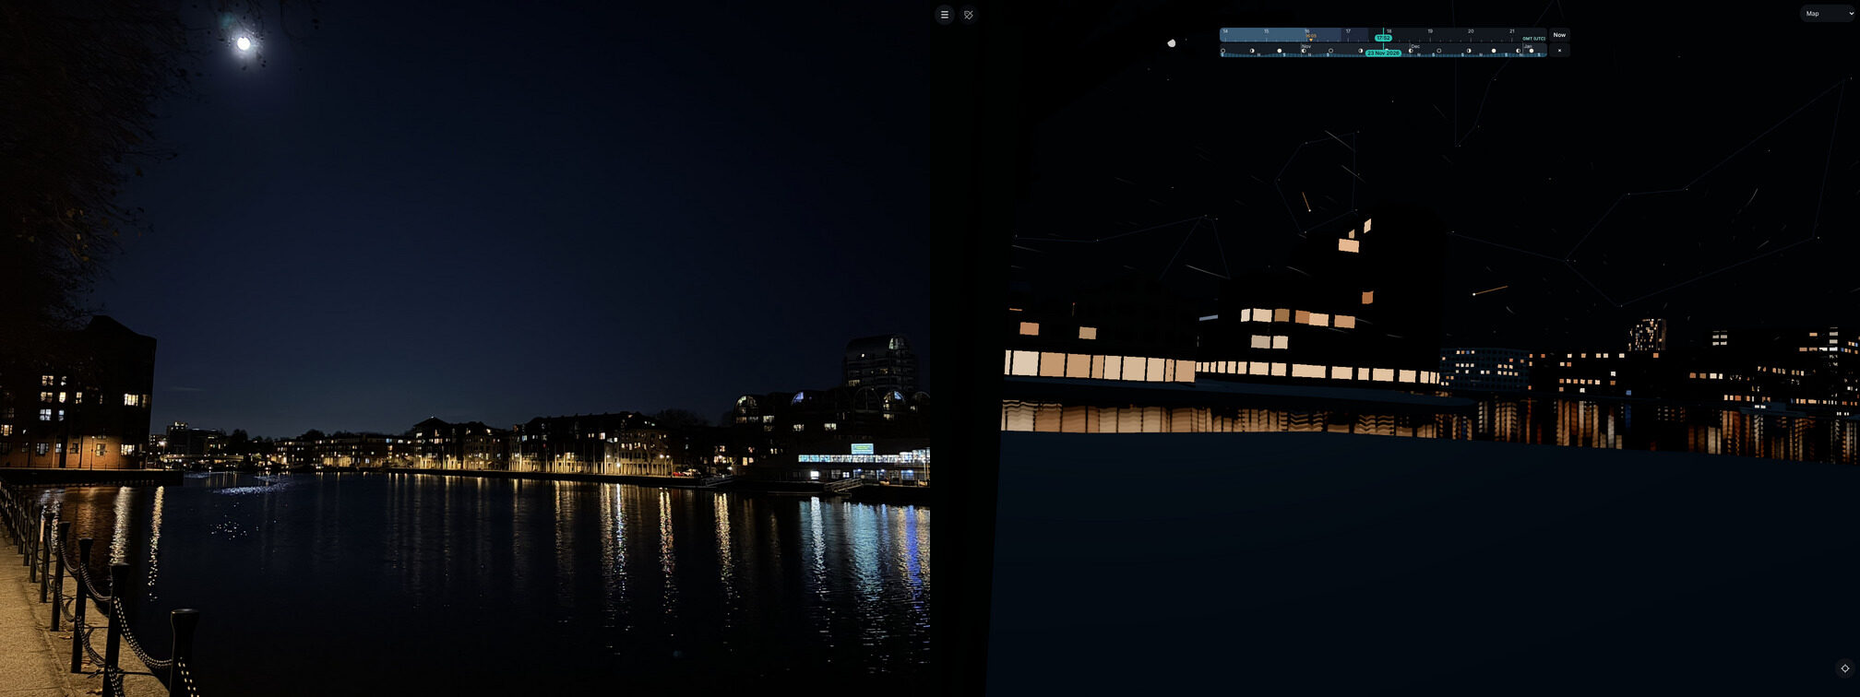
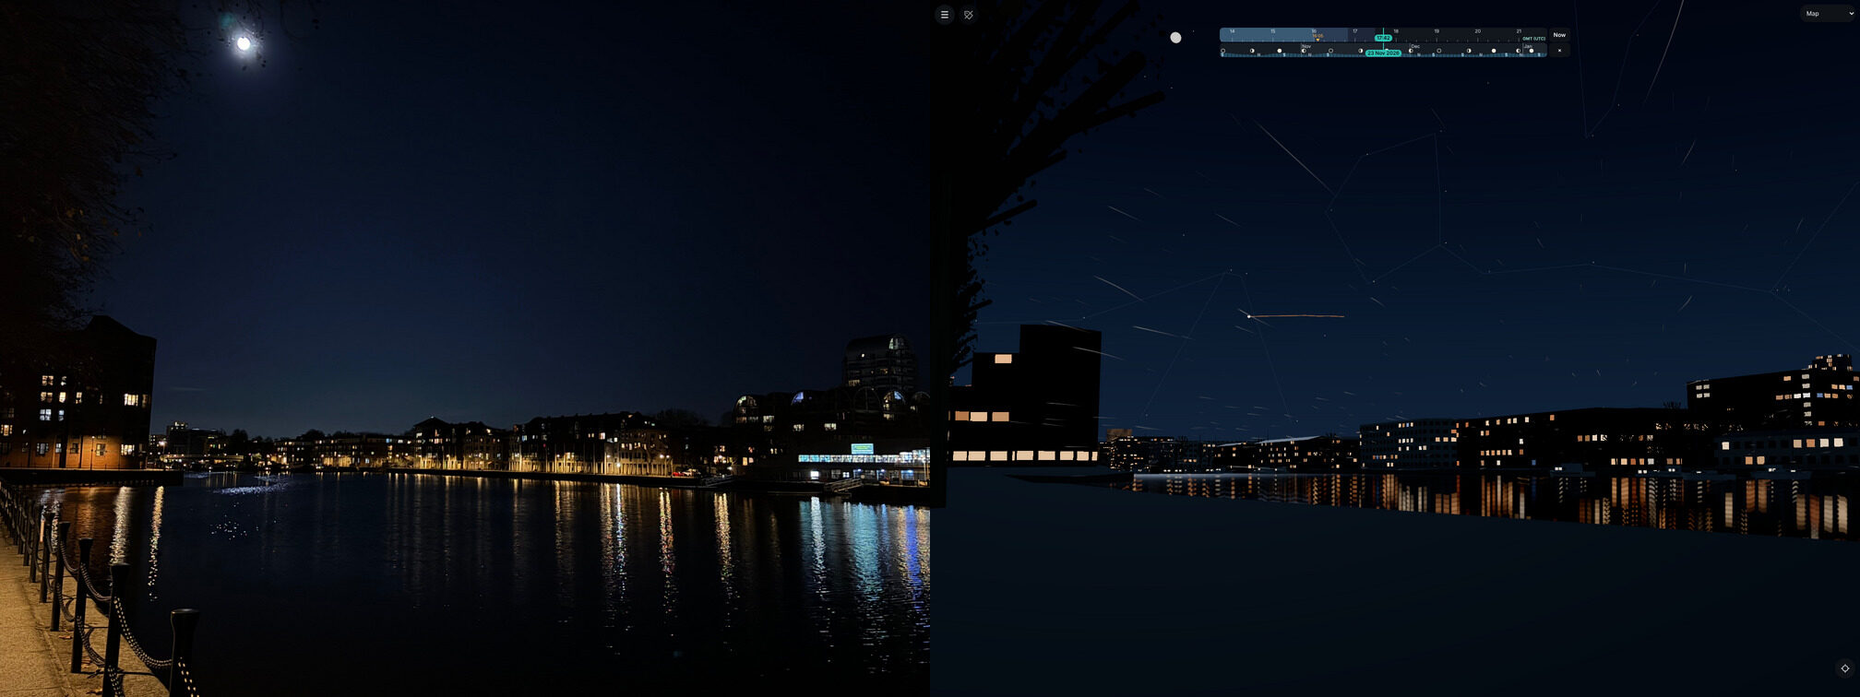
moglob: stone flood walls with a tide band; night sky lit by moon and twilight; thames-2026-11-23 second pass
Cameras at the EXIF GPS fixes and focal lengths; renders with the airport wind
set by hand (the page's weather sources failed in the container and it fell back
silently). Night sky tuned on IMG_2587 to within a few sRGB levels; walls drawn
as stone instead of highlight orange. HDR ratios from the gain maps; fault F56.

Claude-Session: https://claude.ai/code/session_01YA9gEPDC6oHpod2y21SHhn

Changed region(s): [[0.5, 0.1825, 1.0, 0.791], [0.6875, 0.0304, 0.75, 0.0608], [0.625, 0.0304, 0.6562, 0.0608]]

diff --git a/docklands/sky3.js b/docklands/sky3.js
@@ -34,6 +34,8 @@ export const dirOf = (az, alt) => { const a = az * Math.PI / 180, e = alt * Math
 function horizon(body, t) { const d = new Date(t), q = AE.Equator(body, d, OBS, true, true), h = AE.Horizon(d, OBS, q.ra, q.dec, 'normal'), g = AE.Horizon(d, OBS, q.ra, q.dec);
   return { az: h.azimuth, alt: h.altitude, altGeo: g.altitude, dist: q.dist }; }
 const sstep = THREE.MathUtils.smoothstep, clamp01 = v => Math.max(0, Math.min(1, v));
+// the night dome's colours at full strength (sRGB 0..1): tuned live on the Greenland Dock photo of 2026-11-23 17:42 GMT
+export const NIGHT_ZEN = [0.035, 0.055, 0.10], NIGHT_HOR = [0.10, 0.14, 0.21];
 // vertical exaggeration (main.js setVz): the view matrix scales y by vz, so a dome round the eye would show the sun, the
 // horizon glow and the stars too high (a direction at altitude a at atan(vz tan a)). The WebGL page draws its sky with the
 // view's rotation only (sky.js draw: cr, cu, cf from VIEW), so the sky is never exaggerated. Here a mesh round the eye is
@@ -108,6 +110,21 @@ export class Sky3 {
     this.fogU = { sigma: uniform(0), color: uniform(new THREE.Color(0xc4ccd6)) };
     scene.fogNode = fog(this.fogU.color, float(1).sub(exp(positionView.z.mul(this.fogU.sigma))).min(0.85));
     this.makeMoon();
+    this.makeNightDome();
+  }
+  // the night sky: a dome with a colour at the zenith and at the horizon, behind everything while the day sky is hidden. It
+  // brightens and turns blue with the moon (altitude x lit fraction) and with the twilight (the sun from -18 to -6 deg),
+  // tuned on the owner's photo of Greenland Dock at 17:42 GMT on 2026-11-23 (moon 98.7% lit, 26 deg up; sun -15 deg;
+  // data/images/contrib/thames-2026-11-23/: sRGB 3 9 21 at 20 to 28 deg up, 19 28 46 at the horizon). Until then the night
+  // background was a flat near-black whatever the moon.
+  makeNightDome() {
+    const U = this.nightU = { zen: uniform(new THREE.Color(0, 0, 0)), hor: uniform(new THREE.Color(0, 0, 0)) };
+    const m = new THREE.MeshBasicNodeMaterial({ side: THREE.BackSide, depthTest: false, depthWrite: false, fog: false });
+    const dir = normalize(positionWorld.sub(cameraPosition));
+    m.colorNode = vec4(mix(vec3(U.hor), vec3(U.zen), smoothstep(0, 0.45, max(dir.y, 0)).pow(0.7)), 1);
+    const mesh = new THREE.Mesh(new THREE.BoxGeometry(1, 1, 1), m); mesh.scale.setScalar(9000); mesh.renderOrder = -11; mesh.frustumCulled = false;
+    mesh.onBeforeRender = (r, sc, cam) => { mesh.position.copy(cam.position); };
+    vzUndistort(m, this.vzInv); mesh.visible = false; mesh.name = 'night-sky'; this.nightDome = mesh; this.scene.add(mesh);
   }
   // the moon: a disc facing the eye at MOON_R from the camera (so the mirror pass sees it too), added to the sky (the dark
   // side adds nothing but earthshine by night), lit on the side towards the sun (a sphere's normal against the sun direction in the disc's frame: the phase and the bright limb follow); earthshine
@@ -206,6 +223,12 @@ export class Sky3 {
     const night = new THREE.Color(0x1c1a1c).lerp(new THREE.Color(0x3a2f27), cover), dayc = new THREE.Color(0xc4ccd6).lerp(new THREE.Color(0x9ea3a8), cover);
     this.fogU.color.value.copy(night).lerp(dayc, day);
     this.scene.background = day < 0.02 ? new THREE.Color(0x07080c).lerp(new THREE.Color(0x2a231e), 0.85 * cover) : this.cutDark ? new THREE.Color(0x0f1215) : null;
+    // the night dome (makeNightDome): moonlight and twilight, dimmed by cloud; colours in sRGB, converted by THREE.Color
+    { const moon = M.alt > 0 ? sstep(M.alt, 0, 25) * ph : 0, tw = sstep(B.S.alt, -18, -6), k = Math.max(moon, tw) * (1 - 0.7 * cover), on = day < 0.02 && !this.cutDark && k > 0.01;
+      this.nightDome.visible = on;
+      if (on) { const base = new THREE.Color(0x07080c).lerp(new THREE.Color(0x2a231e), 0.85 * cover);
+        this.nightU.zen.value.copy(base).lerp(new THREE.Color().setRGB(...NIGHT_ZEN, THREE.SRGBColorSpace), k);
+        this.nightU.hor.value.copy(base).lerp(new THREE.Color().setRGB(...NIGHT_HOR, THREE.SRGBColorSpace), k); } }
     if (this.state) this.state.weather = w ? { cover, low, mid, high, visibility: vis, sunTransmission: +tr.toFixed(3) } : null;
   }
 }

diff --git a/docklands/layers/walls.js b/docklands/layers/walls.js
@@ -1,7 +1,10 @@
 // Layer "walls" of the Three.js port (docklands/): the Environment Agency tidal flood defences (A.defences of area.js),
 // as in index.html "EA flood defences": for each segment a 0.8 m wide slab from the LiDAR ground (or 0.3 m under the crest,
-// whichever is lower) up to the surveyed crest level d.c (m OD). Colour #e07a3f (index.html WC [.88, .48, .25]). On by
-// default, as the WebGL page's "Flood walls" box. Skill: docklands-3d-page, "Three.js port".
+// whichever is lower) up to the surveyed crest level d.c (m OD). On by default, as the WebGL page's "Flood walls" box.
+// Colour: stone above WET m OD and a dark, weed-stained band below it, as the river walls look in the owner's photos of
+// 2026-11-23 (data/images/contrib/thames-2026-11-23/: London Bridge, Old Billingsgate); until then the highlight orange
+// #e07a3f of index.html, which drew every river wall as a salmon slab and coloured its reflection in the water.
+// Skill: docklands-3d-page, "Three.js port".
 import { A, Mesh, dec } from '../build.js';
 
 // index.html beam(): a box of width w and height h centred on the line a-b (no end caps); three.js lights the faces
@@ -15,10 +18,12 @@ export function beam(M, a, b, w, h, col) {
 export default {
   id: 'walls', label: 'Flood walls (EA, to crest level)', on: true,
   async init(ctx) {
-    const { THREE } = ctx, M = new Mesh(), WC = [.88, .48, .25];
+    const { THREE } = ctx, M = new Mesh(), WC = [.70, .67, .60], WET = 3.2, WETC = [.30, .31, .24];   // stone, the tide band's top (m OD), the band
     let segs = 0;
     for (const d of A.defences || []) { const q = dec(d.q, 3);
-      for (let i = 3; i < q.length; i += 3) { const g = Math.min(q[i - 1], q[i + 2], d.c - .3), h = d.c - g; beam(M, [q[i - 3], g + h / 2, q[i - 2]], [q[i], g + h / 2, q[i + 1]], .8, h, WC); segs++; } }
+      for (let i = 3; i < q.length; i += 3) { const g = Math.min(q[i - 1], q[i + 2], d.c - .3), w = Math.min(Math.max(WET, g), d.c);
+        if (w > g) beam(M, [q[i - 3], (g + w) / 2, q[i - 2]], [q[i], (g + w) / 2, q[i + 1]], .8, w - g, WETC);
+        if (d.c > w) beam(M, [q[i - 3], (w + d.c) / 2, q[i - 2]], [q[i], (w + d.c) / 2, q[i + 1]], .8, d.c - w, WC); segs++; } }
     if (!M.n) return {};
     const mesh = new THREE.Mesh(M.geometry(), ctx.materials.vertexColourMaterial());
     mesh.castShadow = mesh.receiveShadow = true; mesh.name = 'walls';

diff --git a/docklands/layers/model.js b/docklands/layers/model.js
@@ -21,7 +21,7 @@ const KEY = [['#b9bec4', 'Building, LiDAR height (Map look)'], ['#e0b25a', 'Buil
   ['#b05cff', 'Basement (storeys × height)'], ['#e7d6ff', 'Indoor corridor / steps'], ['#d8c49a', 'Outdoor path or steps with a level (decks, bridges)'],
   ['#ff5fa2', 'Shops, rooms, points with a level'], ['#ff8a3d', 'Platform'], ['#c9ced6', 'Jubilee'], ['#9b6cff', 'Elizabeth line'], ['#2cc3b5', 'DLR'],
   ['#ff8a3d', 'Other Overground / rail'], ['#e6e08a', 'Road and foot tunnels'], ['#f9c75a', 'Published slab levels (Crossrail Place)'], ['#3f8fc0', 'Water'],
-  ['#e07a3f', 'Tidal flood walls to their crest level (EA)'], ['#2a4a6b', 'Thames riverbed, UKHO soundings in m OD']];
+  ['#b3ab99', 'Tidal flood walls to their crest level (EA): stone, dark band below 3.2 m OD'], ['#2a4a6b', 'Thames riverbed, UKHO soundings in m OD']];
 
 export default {
   id: 'model', label: null, on: true, menu: 'look', reveal: false,

diff --git a/cwplans/skills/docklands-data-curation/SKILL.md b/cwplans/skills/docklands-data-curation/SKILL.md
@@ -199,6 +199,7 @@ Faults found in this project's joins and tools. "Open" means catalogued and meas
 | F53 | 2026-10-07 | `key-model-buildings.mjs` writes `s:sameAs https://www.openstreetmap.org/undefined/<id>` for every model building keyed by an OSM way: it builds the URL from `el.type`, and the ways of the OSM clip have no `type` field. 42,244 links in the graph `model-building-keys` (a head, not in the browser store). Found by the subagent that moved the graph IDs to https://kgx.foaf.tv/id/. | pipeline | fixed 2026-10-21 (KR6.3 rule 3, londat commits 135a7a50 / e489ffd5): the `sameAs` line builds the URL from the element key (way or relation), operation `key-model-buildings` version 5; for this checkout (no OSM clip or extract) the operation `osm-urls-from-keys` v1 (`key-model-buildings.mjs --repair-osm-urls`) made the new head `id:graphmodelbuildingkeysd69bccf8249df7e7` from `…40cf5331fa99da1a` (42,244 URLs, each checked against its subject key; 220 relation URLs were right already) | `openstreetmap.org/undefined/` in `kgx/current.nq.gz`: 42,244 → 0 |
 | F54 | 2026-10-11 | From a quay the near water is ground: `docklands/build.js` `waterSink` sinks the 20 m terrain grid only more than one cell inside a water polygon that is not tidal ("the edge cells stay: the bank"), so the terrain at about 5 m OD covers the water (3.3 m OD) for up to 20 m out from each dock wall. Seen in the owner's photo of Greenland Dock (2026-10-11, `?view=greenlanddock`): the water starts at the bollards in the photo and about 20 m out in the render, behind a grey slab | validity (our method: grid resolution) | fixed in the Three.js port 2026-10-11 (`build.js` `terrainModel` / `terrainGeometry`: one generic rule for every outline: the terrain triangles are cut along the water outlines, land pieces on the LiDAR with a guard against water returns at the quay, water pieces at the sunk height, a vertical stone quay wall along each outline; Greenland Dock and 2 km of Thames 100 % within 0.5 m with `?layers=water,walls`; 264,625 triangles, was 210,000; skill docklands-3d-page, "Three.js port: dock edges follow the outlines (2026-10-11)"). Open in the WebGL page (`index.html` `waterMask()` / terrainSink: the same cut in its terrain builder, stone colour baked into the wall vertices, the cut heights for its greens and trees, its tide sink on the tidal pieces). Also open: the `?view=greenlanddock` eye is 5 m inside the OSM outline, so the frame's foot is water, not the quay of the photo | `docklands/test/photo-tones.mjs` screenshot; `docklands/test/dock-edges-check.mjs`; `data/images/contrib/greenlanddock/README.md` |
 | F55 | 2026-10-18 | Buildings outside the UK with no height in OSM: `cwplans/tools/build-place-tiles.mjs` (places on the globe, KR1.2) takes OSM `height`, else `building:levels` x 3 m, else a national adapter's floors x 3 m (León: the Catastro INSPIRE building parts, area-weighted median of the parts whose centroid is inside the OSM outline), else a stated default (9 m; 3 m for small kinds such as garage, shed, kiosk). Counted per class in each place's `log.json` (`height_sources`), not patched per record. León (OSM of 2026-10-18, 4,213 buildings and parts): OSM height 105, OSM levels 1,452, Catastro floors 2,454, default 177, small default 25; OSM levels and Catastro floors differ by 2 or more for 61. Sarajevo (OSM of 2026-10-18, 7,432 buildings and parts, no national height source: FGU / RGURS not yet reached): OSM height 141, OSM levels 176, default 7,096, small default 19, so 95 % stand at 9 m. 2026-10-20 (place-heights v2): a worldwide raster step before the default, GHSL GHS-BUILT-H R2023A cell average (CC BY 4.0, adapter world-ghsl): Sarajevo default 7,096 -> 0, GHSL 7,096 (3 to 18.2 m, median 10.4); León default 177 -> 0, GHSL 177. A cell average is not a building measure, so the class stays open. FGU (katastar.ba) services need a log-in, a written request and a fee: not reached. Roofs are a second class in the same log (`roofs`): OSM roof:shape where tagged, else the region roof rule, else flat. 2026-10-20 later (place-heights v3, owner "Use ms/overture"): Overture (non-OSM values with an open licence) and Microsoft footprint heights before GHSL: León Overture 7, Microsoft 6, GHSL 177 -> 166; Sarajevo 0 and 0 (Microsoft has no heights in quadkey 120233030; Overture's non-OSM records there are Microsoft footprints without heights), GHSL stays 7,096. Overture num_floors from IGN España (1,009 in León) have an empty licence field: left out. 2026-10-20 night (place-heights v4, place-city-heights v1; owner on the IGN floors: "use the data but keep it distinct and easy to remove if requested. Use for validation at least"): adapter overture-ign-floors, its own crop places/leon/sources/overture-ign-floors.json (9,782 records over the city box), class `overture-ign-floors` after the national floors, switch = its id in place.heights. These records are whole IGN buildings that OSM lacks (1 of 9,782 matches an OSM outline), so they give 0 heights; as EVIDENCE: against the Catastro parts inside each record (area-weighted median), 4,490 records, same floors 89.9 %, within one floor 97.9 %, mean difference +0.05, mean absolute 0.15, max 9 (IGN and Catastro agree: the national floors class is sound where both exist); against OSM building:levels 1 record. The city tier (blocks, OSM geometry via Overture) uses the same order: León city 11,201 buildings: OSM height 14, levels 1,176, Catastro 5,050, Overture 913, Microsoft 208, small 163, GHSL 3,674, default 3; Sarajevo city 48,736: OSM height 32, levels 2,370, small 200, GHSL 46,106 (95 %), default 28. 2026-10-21 (place-city-heights v2): the city ring also draws IGN (León) and Microsoft footprints where OSM has none, each its own geometry class with a switch; their heights: León IGN 10,852: IGN floors 4,927, Catastro 4,524, GHSL 1,268, Overture height 50, default 45, Microsoft 38; León Microsoft 1,907: GHSL 1,669, Overture height 173, Catastro 30, default 35; Sarajevo Microsoft 8,944: GHSL 8,907, default 37. 2026-10-21 (Greater London as blocks, place-city-heights over 1,122,576 OSM buildings of the GLA area, Overture release 2026-09-23.1): OSM height 1,354 (OSM `height` is rare in London: 2,247 records), OSM levels 224,148, other Overture sources 0, Microsoft ML heights through Overture 189,445 (Overture had put them on 333,782 OSM outlines already: the record's own ring matches), small kinds 22,477, GHSL 685,028 (61 %), default 7 m 124; `places/london/provenance/log.json` | coverage (source) and validity (our rule: 3 m a storey, flat roofs, roof:levels left out) | open, by design: the rule is the class; better sources per country (3DBAG for the Netherlands, national LiDAR heights) replace the default in the adapter, not in records | https://github.com/danbri/londat/blob/main/cwplans/docklands/data/places/leon/log.json `height_sources`; skill docklands-3d-page, "Three.js port: places as 3D Tiles (2026-10-18)" |
+| F56 | 2026-11-23 | Baltic Quay (OSM relation 7168778, model 38286) is 32.6 m OD in the model; the owner's photo IMG_2587 of 23 November (eye at its GPS fix, camera fitted to the moon and the dock waterline, rms 7.3 px) puts its tower top 7.1 deg up at 332 m, about 47 m OD. The model is about 14 m low (the relation's outline probably averages the tower with the lower blocks). Open: take the tower part's own height. Record: `data/images/contrib/thames-2026-11-23/README.md`. |
 
 Add new faults here with the next F number, and in the activity log.
 

diff --git a/data/images/contrib/thames-2026-11-23/README.md b/data/images/contrib/thames-2026-11-23/README.md
@@ -46,6 +46,68 @@ IMG_2337 shows HMS Belfast and Tower Bridge against the light. 2347 and 2354: th
 gain map (`urn:com:apple:photo:2020:aux:hdrgainmap`), a sky mask (`...:aux:semanticskymatte`), a linear thumbnail and a
 style delta map (`tag:apple.com,2023:photo:aux:...`); no depth or disparity map.
 
+### Second pass with the originals (2026-11-23, 22:30 to 23:40 GMT)
+
+Photos decoded from the HEICs (Display P3 to sRGB, 2016 px on the long side). Cameras with the eye at the GPS fix (height
+from the tide: 4.2 m OD on the boat; 5.5 m OD on the dock quay) and the focal length from the EXIF 35 mm equivalent
+(f = f35 / 43.27 x the image diagonal in pixels); only heading, pitch and roll fitted:
+
+| IMG | focal (px on 2016) | heading (grid) | pitch | roll | evidence | rms |
+|---|---|---|---|---|---|---|
+| 2337 | 9784 (168 mm) | 103.69 | 2.87 | 0 (fixed) | the Tower Bridge south tower peak (model 39872, 68 m OD) | exact (1 point) |
+| 2340 | 14210 (244 mm) | 76.73 | 1.58 | 0.95 | the four White Tower turret tops | 11.0 px |
+| 2347 | 1398 (24 mm) | 27.35 | 3.37 | 0.56 | 22 Bishopsgate, 20 Fenchurch Street, the Scalpel, 4 waterline pixels | 13.4 px |
+| 2354 | 6639 (114 mm) | about 29 | about 3.0 | 0 | the pier's west corner and waterline, by hand | not fitted |
+| 2587 | 2097 (36 mm) | 97.09 | 7.07 | -0.18 | the moon at the EXIF time, 4 dock waterline pixels | 7.3 px |
+
+In 2587 the top of Baltic Quay, held out, misses by 100 px: the photo puts it about 47 m OD at 332 m, the model has 32.6 m
+(fault F56 in the curation skill).
+
+Render inputs: in this container the page's weather sources failed and it used its stated default wind (4 m/s from 240)
+silently: Open-Meteo answered "Daily API request limit exceeded" (the day's many test loads from one address), and the
+live-cache METAR request was aborted by its 8 s limit while the software-rendered page loaded (curl fetches it in 0.45 s);
+`metar-history.json` ends on 2026-11-22. The renders therefore set the airport reports by hand: `?wind=1.5,60` (EGLC
+230920Z 06003KT) and `?wind=3.1,110` (231750Z 11006KT). Cloud: none (METAR "NCD"); the photos show thin cirrus.
+
+HDR measurements (Apple's published headroom rule from maker-note tags 33 and 48: 5.1x for 2347, 4.8x for 2587; HDR
+linear = SDR linear x (1 + (headroom - 1) x gain map); ratios to the median of the sky, found with the HEIC's sky mask):
+
+| photo | region | median | brightest 1% |
+|---|---|---|---|
+| 2347 | sun glint on the glass front | 7.7 | 9.7 |
+| 2347 | glitter path on the river | 0.8 | 9.6 |
+| 2347 | water beside the path | 0.39 | 1.8 |
+| 2347 | sunlit front of Old Billingsgate | 1.95 | 4.9 |
+| 2587 | moon | 150 | over 800 (clipped) |
+| 2587 | moon glitter on the dock | 1.3 | 78 |
+| 2587 | lamp and window streaks (far right) | 12 | 250 |
+| 2587 | dark water | 0.47 | 3.3 |
+
+What the renders at the right cameras show (`compare-IMG_NNNN-photo-moglob.jpg`, photo left):
+(`compare-IMG_2354-photo-moglob.jpg`: photo, then moglob with the old orange walls, then with the new stone walls; `compare-IMG_2587-photo-moglob.jpg`: photo, then moglob with the new night sky.)
+
+- 2337 Tower Bridge: the tower is in the right place; it has the office facade, and no high walkways or chains;
+  HMS Belfast's sides that face the camera are in shade in the photo (the sun 45 deg to the right) and light grey in the
+  render.
+- 2340 Tower of London: the turrets are in the right place; office facades on the White Tower and its neighbours; a
+  simulated river bus at Tower Millennium Pier (the pier layer draws one while the TfL timetable has a call; the photo
+  shows none) fills the foreground.
+- 2347 City: no glint on any glass front and so no second glitter path; grey, not sunlit, fronts; the building reflections
+  bent too much by the chop.
+- 2354 London Bridge: the river wall was a large salmon-orange slab (the flood wall layer's highlight colour) and coloured
+  the water orange; the bridge piers are missing.
+- 2587 Greenland Dock: the night sky was black (sRGB 1 2 3) against the photo's deep blue (3 9 21 high, 19 28 46 at the
+  horizon); no moon glitter; constellation lines over the sky.
+
+Changes made the same evening:
+
+1. Flood walls (`docklands/layers/walls.js`): stone (sRGB 0.70 0.67 0.60) with a dark band (0.30 0.31 0.24) below 3.2 m OD,
+   in place of the highlight orange; the legend says so. The layer, its switch and its data are unchanged.
+2. Night sky (`docklands/sky3.js`, `makeNightDome`): a dome with a zenith and a horizon colour while the day sky is hidden,
+   brightened by the moon (altitude x lit fraction) and by twilight (sun -18 to -6 deg), dimmed by cloud. Tuned live on
+   2587 in three rounds; chosen: sRGB 2 8 22 at 20 to 28 deg up (photo 3 9 21), 5 18 37 at 10 to 15 deg (7 16 31), 12 29 50
+   at the horizon (19 28 46).
+
 My estimates made before the zip, against the EXIF (the sections below are those estimates, kept as the record):
 
 - Times of 01 to 03, "about 09:30 to 09:50": right (09:38 to 09:40).
@@ -116,13 +178,13 @@ GMT +-4 min; the owner sent the photos at 18:08.
   the sky deep blue, lighter at the horizon.
 - moglob: no moon glitter; few streaks on the near water; constellation lines drawn over the sky (a layer that is on).
 
-## Gaps found, for the next steps
+## Gaps found, for the next steps (status after the second pass)
 
 1. Building material by type: historic stone buildings (castle, church, Victorian market) take the office facade.
 2. Sunlit fronts: low winter sun should warm and brighten the faces it lights (Tower, Billingsgate, London Bridge).
 3. Specular glass: sun glints on glass fronts and the glitter path they throw.
-4. Moon glitter on water at night.
-5. River walls and timber jetties: an orange-brown band in the model.
+4. Moon glitter on water at night. The night sky colour itself: done, 2026-11-23.
+5. River walls: done (stone with a tide band), 2026-11-23. Timber jetties: open.
 6. Bridge piers missing (London Bridge).
 7. Cameras: 03 and 04 need better solves before their numbers are used.
 8. Inputs of the day renders: the page used its stated default wind (4 m/s from 238 deg) and no weather for 01 to 03

diff --git a/cwplans/docklands/skills/photo-view-reconstruction/SKILL.md b/cwplans/docklands/skills/photo-view-reconstruction/SKILL.md
@@ -193,6 +193,26 @@ and measurements: https://github.com/danbri/londat/blob/main/data/images/contrib
   README lists what the port lacks here: the warm horizon round a low sun, brown turbid water, choppy water without mirror
   reflections, and the glare round the sun.
 
+## Rendering moglob at a photo's camera (2026-11-23)
+
+- `tools/view-mcp/render.mjs` renders the old WebGL 1 page (`cwplans/docklands/`), not moglob. For moglob, open
+  `docklands/?t=<time>&labels=0&webgl&animate=0`, wait for `__docklands3.ready`, then
+  `__docklands3.setCam({ ...eyeView(eye, heading, pitch, hfov), roll })` with `eyeView` imported from `/docklands/views.js`;
+  wait about 25 s; screenshot. About 8 minutes a view in SwiftShader; a background command stops at 30 minutes, so run at
+  most three views a command.
+- Read the page's inputs after the render (`WU.windSpeed`, `WU.windDir`, `sky.state.weather`): the weather sources fail in
+  the container (Open-Meteo's daily limit after many loads; the live-cache METAR fetch aborts at 8 s while the page is
+  busy) and the page falls back to 4 m/s from 240 without an error. Set the airport report by hand with `?wind=m/s,deg`.
+- With the EXIF: eye at the GPS fix, focal = f35 / 43.27 x the image diagonal in pixels, fit only heading, pitch and roll.
+  The phone compass on a boat was 14 to 120 deg wrong; do not use it there.
+- Tune a colour live: one page load, change the exported constant or uniform from Playwright, `applyLight()` or
+  `frameNow()`, screenshot, measure, repeat (night sky: three rounds, 2026-11-23). The tone mapping shifts colours (AgX made
+  a dark blue more saturated and removed its red): measure the output, never assume input equals output.
+- HDR from the HEIC: the gain map (`urn:com:apple:photo:2020:aux:hdrgainmap`) and Apple's headroom (maker-note tags 33 and
+  48) give brightness above the SDR white: HDR = SDR x (1 + (headroom - 1) x gain). The sky mask
+  (`...:aux:semanticskymatte`) selects sky pixels exactly. `pillow-heif` reads both (8-bit); the linear thumbnail and the
+  style delta map are 10-bit and it does not read them.
+
 ## Ground versus air
 
 Ground (a pier, a promenade): the eye is known to a few metres from where the photo was taken and its height from the

diff --git a/cwplans/skills/docklands-data-curation/ACTIVITY-LOG.md b/cwplans/skills/docklands-data-curation/ACTIVITY-LOG.md
@@ -3782,3 +3782,11 @@ for automation, and moglob opens an old `#v=1` share link with no page errors. `
   glass, no moon glitter, orange-brown river walls, no bridge piers. No renderer change in this entry.
 - `tools/view-mcp/render.mjs` renders the old WebGL 1 page, not moglob; the moglob renders here used a script that sets the
   camera through `views.js eyeView` and `__docklands3.setCam` (about 8 minutes a view in SwiftShader).
+- Second pass with the HEIC originals (22:30 to 23:40 GMT): cameras at the GPS fixes with EXIF focal lengths (rms 7 to 13
+  px); renders with the airport wind set by `?wind=` because the page's weather sources failed in the container (Open-Meteo
+  daily limit; live-cache METAR fetch aborted at 8 s; METAR history ends 2026-11-22) and it fell back silently to 4 m/s
+  from 240. HDR ratios from the gain maps (glint 7.7x the sky, moon glitter sparkles to 78x). Changes: flood walls drawn
+  as stone with a tide band (was highlight orange); a night sky dome lit by moon and twilight (was near-black), tuned on
+  IMG_2587 to within about 2 to 7 sRGB levels. New fault F56 (Baltic Quay 14 m low). Open: facades by building type, sunlit
+  fronts, glass glints, moon glitter, shaded faces too bright, bridge piers, simulated boats at piers hiding the view,
+  the silent weather fallback.
